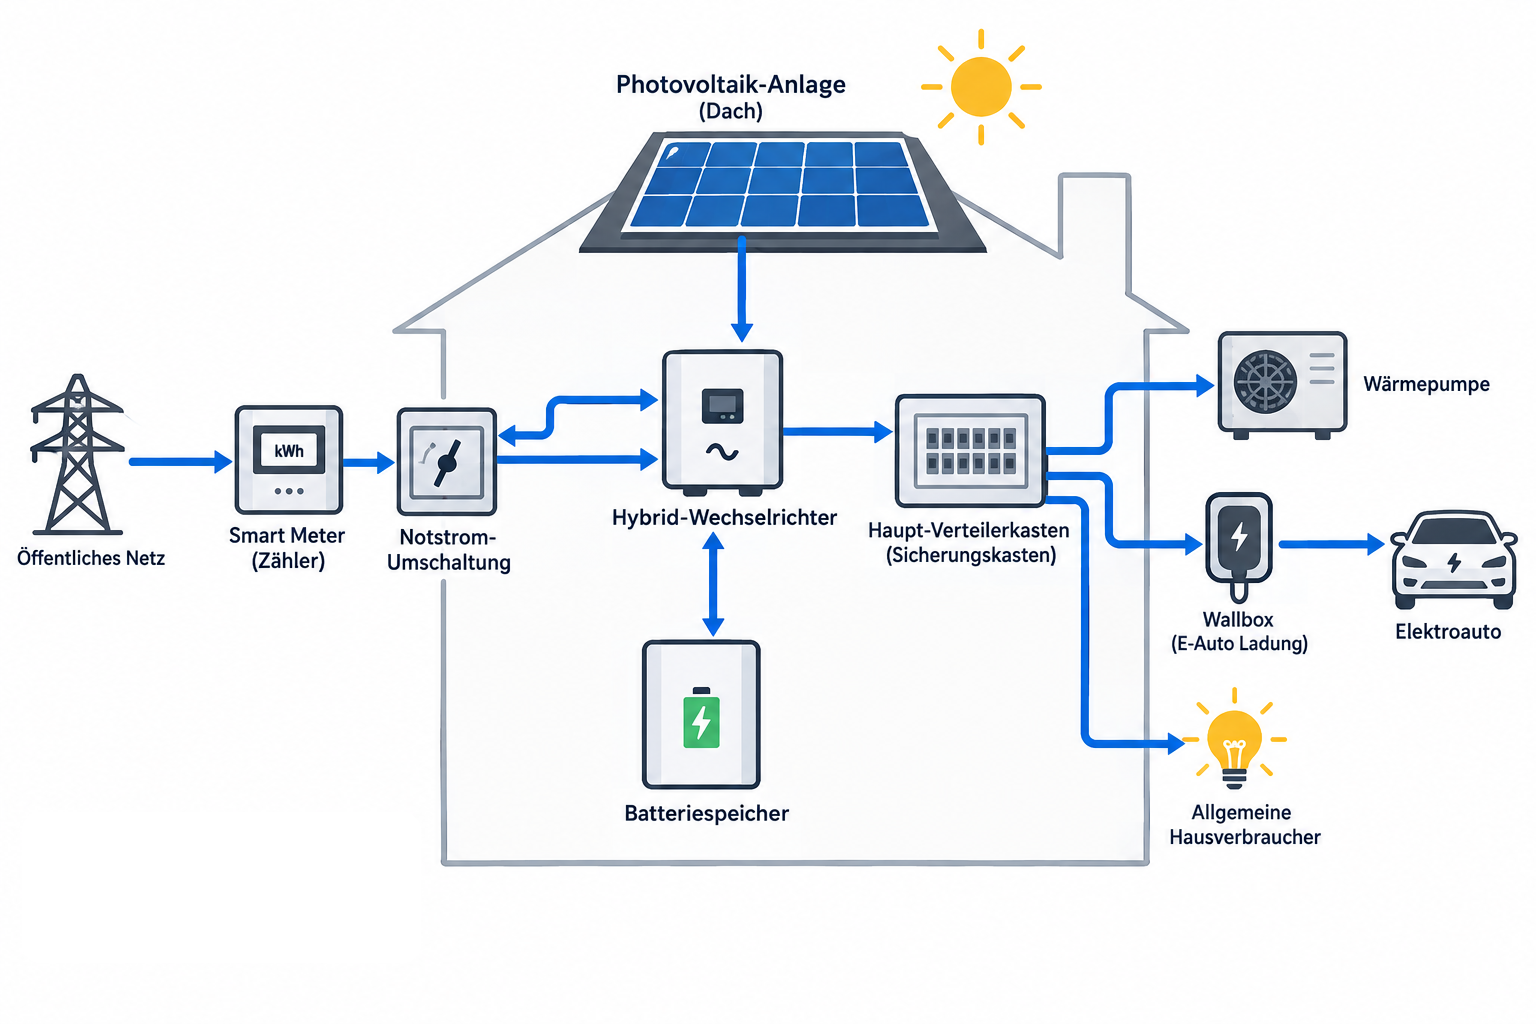
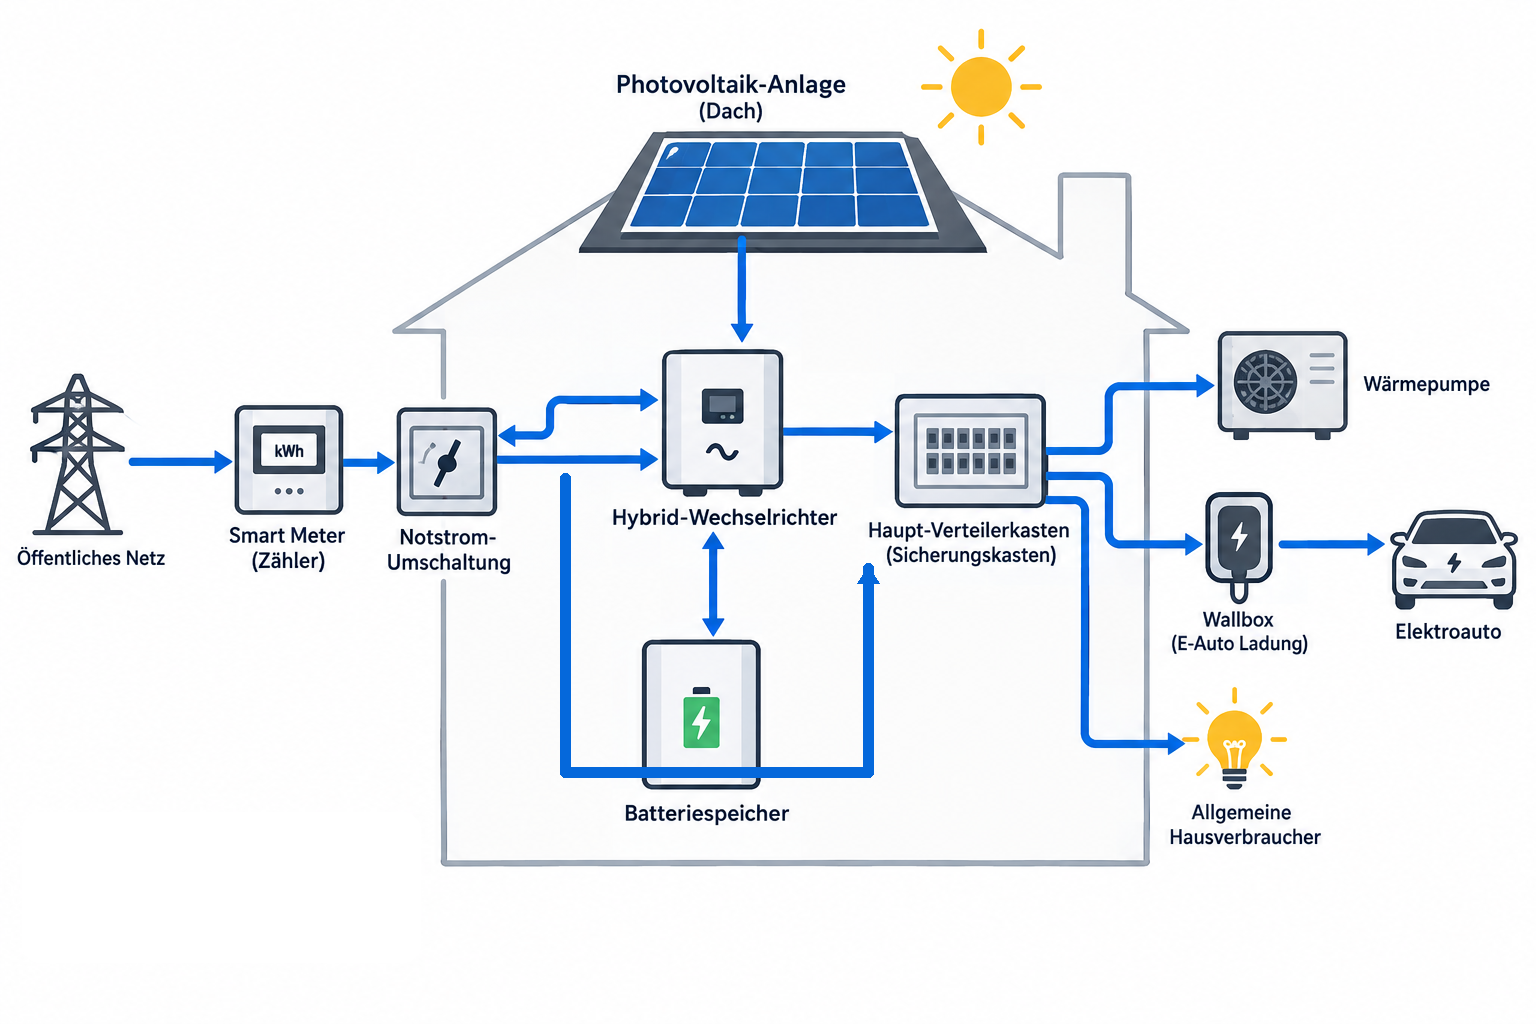
fix(offer): correct house diagram wiring and product mute
Route Notstrom directly to the Haupt-Verteilerkasten (keep Inv↔Notstrom and
Inv→Verteiler). Mute missing sellable icons/labels via arrow-aware pale filter;
QR/online block already removed from the glance page.

Changed region(s): [[0.3438, 0.4688, 0.5625, 0.7812], [0.5625, 0.5625, 0.5938, 0.75]]

diff --git a/src/offer/house-diagram.js b/src/offer/house-diagram.js
@@ -29,14 +29,14 @@ const REGIONS = {
   verteiler: [0.54, 0.32, 0.67, 0.56],
   hausverbraucher: [0.66, 0.72, 0.84, 0.94],
 
-  // Sellable products — tight around glyph + caption
-  notstrom: [0.275, 0.28, 0.375, 0.50],
+  // Sellable products — tight around glyph + caption (not surrounding arrows)
+  notstrom: [0.275, 0.28, 0.375, 0.54],
   pv: [0.34, 0.02, 0.58, 0.26],
   inverter: [0.38, 0.30, 0.51, 0.50],
   battery: [0.38, 0.52, 0.52, 0.74],
-  waermepumpe: [0.74, 0.14, 0.91, 0.40],
-  wallbox: [0.72, 0.44, 0.84, 0.66],
-  ev: [0.84, 0.40, 0.97, 0.68],
+  waermepumpe: [0.74, 0.14, 0.92, 0.42],
+  wallbox: [0.72, 0.44, 0.85, 0.70],
+  ev: [0.84, 0.40, 0.98, 0.72],
 };
 
 /** Sellable product keys muted when not in the offer. */
@@ -142,33 +142,147 @@ function resolveHouseDiagramSelection(offer) {
 }
 
 /**
- * Pale black-and-white for component pixels only.
+ * Pale black-and-white for icon/label ink (strong enough to read as “not in offer”).
  */
 function mutePixel(r, g, b) {
   const gray = 0.299 * r + 0.587 * g + 0.114 * b;
-  const pale = Math.min(235, gray * 0.35 + 210 * 0.65);
+  // Lift toward paper white so muted icons look washed-out, not just darker grey
+  const pale = Math.min(238, gray * 0.22 + 218 * 0.78);
   const v = Math.round(pale);
   return { r: v, g: v, b: v };
 }
 
-/** Skip arrows, house shell, and page background — mute only icon/label ink. */
-function shouldProtectInfrastructure(r, g, b) {
-  // Page white
-  if (r >= 250 && g >= 250 && b >= 250) return true;
-  // Stromfluss arrows (diagram blue ~ rgb(46,110,185))
-  if (b > r + 16 && b > g + 6 && b > 75) return true;
+/** Near-white / soft house wash — never mute. */
+function isBackgroundWash(r, g, b) {
+  if (r >= 248 && g >= 248 && b >= 248) return true;
   const max = Math.max(r, g, b);
   const min = Math.min(r, g, b);
   const sat = max - min;
   const lum = 0.299 * r + 0.587 * g + 0.114 * b;
-  // Light house outline / soft fill (neutral, bright)
   if (sat < 22 && lum > 200) return true;
-  // Soft house shadow wash
   if (sat < 16 && lum > 185) return true;
   return false;
 }
 
-function applyGreyRegions(png, greyKeys) {
+/** Candidate Stromfluss blue (tight — matches thick flow arrows ~rgb(5,104,219)). */
+function isFlowBlueCandidate(r, g, b) {
+  return b >= 175 && r <= 110 && g >= 60 && g <= 175 && (b - r) >= 70 && (b - g) >= 30;
+}
+
+/**
+ * Flood-fill flow-blue components. A component is treated as a Stromfluss arrow
+ * only if it is large/elongated AND extends outside the mute box (true flows),
+ * so blue icon accents (Blitz etc.) inside the box still get muted.
+ */
+function collectBlueComponents(png) {
+  const w = png.width;
+  const h = png.height;
+  const n = w * h;
+  const cand = new Uint8Array(n);
+  for (let y = 0; y < h; y += 1) {
+    for (let x = 0; x < w; x += 1) {
+      const i = (w * y + x) << 2;
+      if (isFlowBlueCandidate(png.data[i], png.data[i + 1], png.data[i + 2])) {
+        cand[y * w + x] = 1;
+      }
+    }
+  }
+  const label = new Int32Array(n);
+  const comps = []; // { count, minX, maxX, minY, maxY, pixels: Int32Array of indices }
+  const seen = new Uint8Array(n);
+  const qx = new Int32Array(n);
+  const qy = new Int32Array(n);
+  let labelId = 0;
+  for (let y = 0; y < h; y += 1) {
+    for (let x = 0; x < w; x += 1) {
+      const start = y * w + x;
+      if (!cand[start] || seen[start]) continue;
+      labelId += 1;
+      let qh = 0;
+      let qt = 0;
+      qx[qt] = x;
+      qy[qt] = y;
+      qt += 1;
+      seen[start] = 1;
+      let minX = x;
+      let maxX = x;
+      let minY = y;
+      let maxY = y;
+      const pix = [];
+      while (qh < qt) {
+        const cx = qx[qh];
+        const cy = qy[qh];
+        qh += 1;
+        const idx = cy * w + cx;
+        pix.push(idx);
+        label[idx] = labelId;
+        if (cx < minX) minX = cx;
+        if (cx > maxX) maxX = cx;
+        if (cy < minY) minY = cy;
+        if (cy > maxY) maxY = cy;
+        for (let dy = -1; dy <= 1; dy += 1) {
+          for (let dx = -1; dx <= 1; dx += 1) {
+            if (!dx && !dy) continue;
+            const nx = cx + dx;
+            const ny = cy + dy;
+            if (nx < 0 || ny < 0 || nx >= w || ny >= h) continue;
+            const ni = ny * w + nx;
+            if (!cand[ni] || seen[ni]) continue;
+            seen[ni] = 1;
+            qx[qt] = nx;
+            qy[qt] = ny;
+            qt += 1;
+          }
+        }
+      }
+      comps.push({
+        id: labelId,
+        count: pix.length,
+        minX,
+        maxX,
+        minY,
+        maxY,
+        pixels: pix,
+      });
+    }
+  }
+  return { w, h, label, comps };
+}
+
+function buildArrowMaskForBox(components, boxPx) {
+  const { w, h, comps } = components;
+  const n = w * h;
+  const mask = new Uint8Array(n);
+  const [x0, y0, x1, y1] = boxPx;
+  for (const c of comps) {
+    const bw = c.maxX - c.minX + 1;
+    const bh = c.maxY - c.minY + 1;
+    const longAxis = Math.max(bw, bh);
+    if (c.count < 160 || longAxis < 32) continue;
+    // Must extend outside this mute box → real flow, not an icon-local blitz
+    const outside = c.minX < x0 - 2 || c.maxX > x1 + 2 || c.minY < y0 - 2 || c.maxY > y1 + 2;
+    if (!outside) continue;
+    for (let k = 0; k < c.pixels.length; k += 1) mask[c.pixels[k]] = 1;
+  }
+  // Dilate 1px for anti-alias
+  const dil = new Uint8Array(n);
+  for (let i = 0; i < n; i += 1) {
+    if (!mask[i]) continue;
+    const x = i % w;
+    const y = (i / w) | 0;
+    for (let dy = -1; dy <= 1; dy += 1) {
+      for (let dx = -1; dx <= 1; dx += 1) {
+        const nx = x + dx;
+        const ny = y + dy;
+        if (nx < 0 || ny < 0 || nx >= w || ny >= h) continue;
+        dil[ny * w + nx] = 1;
+      }
+    }
+  }
+  return dil;
+}
+
+function applyGreyRegions(png, greyKeys, components) {
   const w = png.width;
   const h = png.height;
   for (const key of greyKeys) {
@@ -178,13 +292,24 @@ function applyGreyRegions(png, greyKeys) {
     const y0 = Math.max(0, Math.floor(box[1] * h));
     const x1 = Math.min(w, Math.ceil(box[2] * w));
     const y1 = Math.min(h, Math.ceil(box[3] * h));
+    const arrowMask = buildArrowMaskForBox(components, [x0, y0, x1, y1]);
+    // Icon core: mute ALL ink (incl. blue blitz). Only the rim may keep arrow strokes.
+    const insetX = Math.max(4, Math.round((x1 - x0) * 0.14));
+    const insetY = Math.max(4, Math.round((y1 - y0) * 0.12));
+    const cx0 = x0 + insetX;
+    const cy0 = y0 + insetY;
+    const cx1 = x1 - insetX;
+    const cy1 = y1 - insetY;
     for (let y = y0; y < y1; y += 1) {
       for (let x = x0; x < x1; x += 1) {
-        const i = (w * y + x) << 2;
+        const pi = y * w + x;
+        const inCore = x >= cx0 && x < cx1 && y >= cy0 && y < cy1;
+        if (!inCore && arrowMask[pi]) continue; // Stromfluss in the rim stays
+        const i = pi << 2;
         const r = png.data[i];
         const g = png.data[i + 1];
         const b = png.data[i + 2];
-        if (shouldProtectInfrastructure(r, g, b)) continue;
+        if (isBackgroundWash(r, g, b)) continue;
         const { r: nr, g: ng, b: nb } = mutePixel(r, g, b);
         png.data[i] = nr;
         png.data[i + 1] = ng;
@@ -201,7 +326,8 @@ function renderHouseDiagramPng(offer) {
     const raw = fs.readFileSync(BASE);
     if (!greyKeys.length) return raw;
     const png = PNG.sync.read(raw);
-    applyGreyRegions(png, greyKeys);
+    const components = collectBlueComponents(png);
+    applyGreyRegions(png, greyKeys, components);
     return PNG.sync.write(png);
   } catch (err) {
     console.warn('[NOORTEC] house-diagram render:', err.message);
